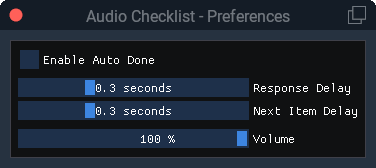
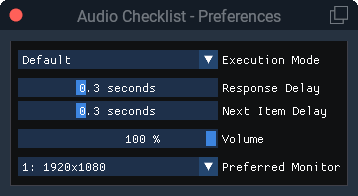
Updated Usage.md

diff --git a/docs/Usage.md b/docs/Usage.md
@@ -24,6 +24,8 @@ If there are no SOPs installed for the current plane, then the list of SOPs is e
 
 A SOP can come with different voices, which can be selected in the next two dropdown menus. The pilot flying (PF) will read the responses of a checklist and the pilot monitoring (PM) will read the challenges.
 
+Each SOP contains a special voice for the PF, which is named “Me”. This voice does not play any responses, so it can be used to response to the challenges yourself. This voice should only be used when the “Manual” execution mode is set (see Preferences).
+
 Click the button `Start` to confirm your choice. You can switch to a different SOP any time by selecting the menu entry `Plugins > FlyWithLua > FlyWithLua Macros > Audio Checklist: Switch SOP`:
 
 ![Switch SOP](images/SwitchSOP.png)
@@ -32,7 +34,7 @@ Switching the SOP resets the state of the current checklists (i.e. they are no l
 
 ## Executing a checklist
 
-Once a SOP has been selected, all available checklists are listed: 
+Once a SOP has been selected, all available checklists are listed:
 
 ![Checklist window](images/ChecklistWindow.png)
 
@@ -66,9 +68,14 @@ A new window will be opened, which contains all available preferences:
 
 ![Preferences](images/Preferences.png)
 
-* Enable Auto Done
-  * If checked, the manual checklist items are finished automatically
-  * Default value: False
+* Execution Mode
+  * Default
+    * Performs automatic checks. Manual checklist items need to be completed by you
+  * Auto Done
+    * Performs automatic checks. Automatically completes the manual checklist items
+  * Manual
+    * No automatic checks are performed. Each checklist item needs to be completed by you
+  * Default value: Default
 * Response Delay
   * The delay time in seconds between the challenge sound and the response sound. It is also used as the delay between the fail sound and the response sound, if an automatic checklist item has failed
   * Default value: 0.3 seconds
